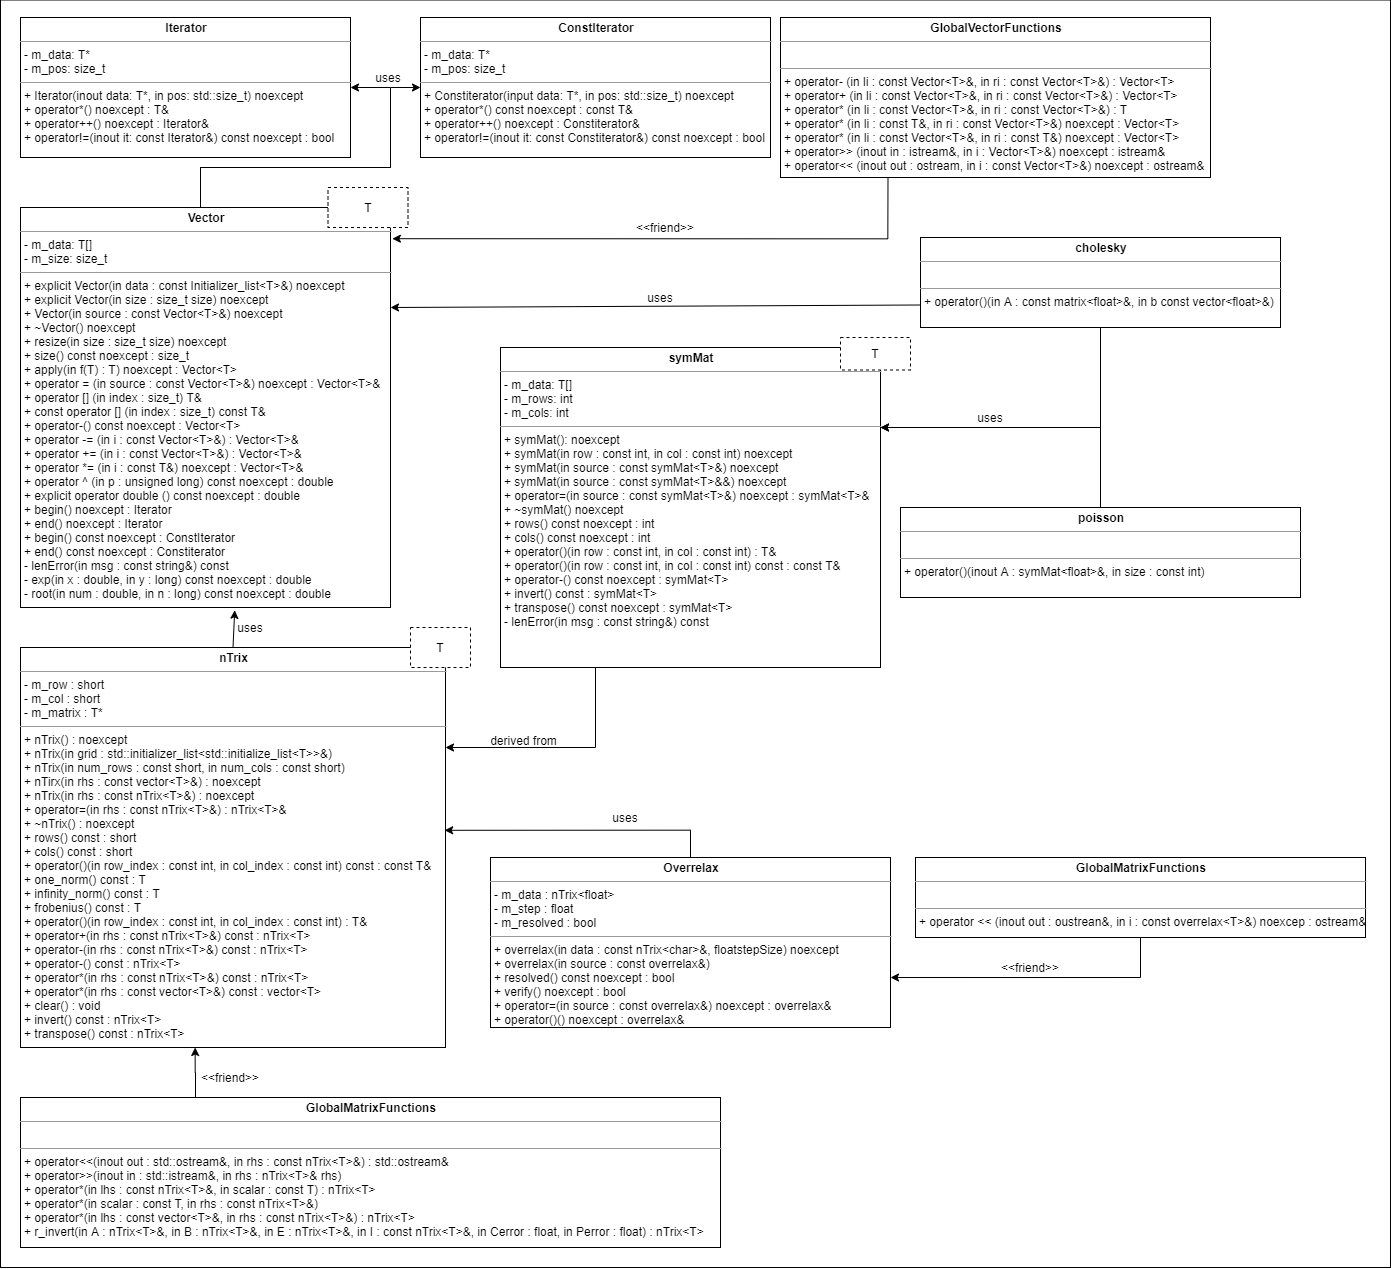
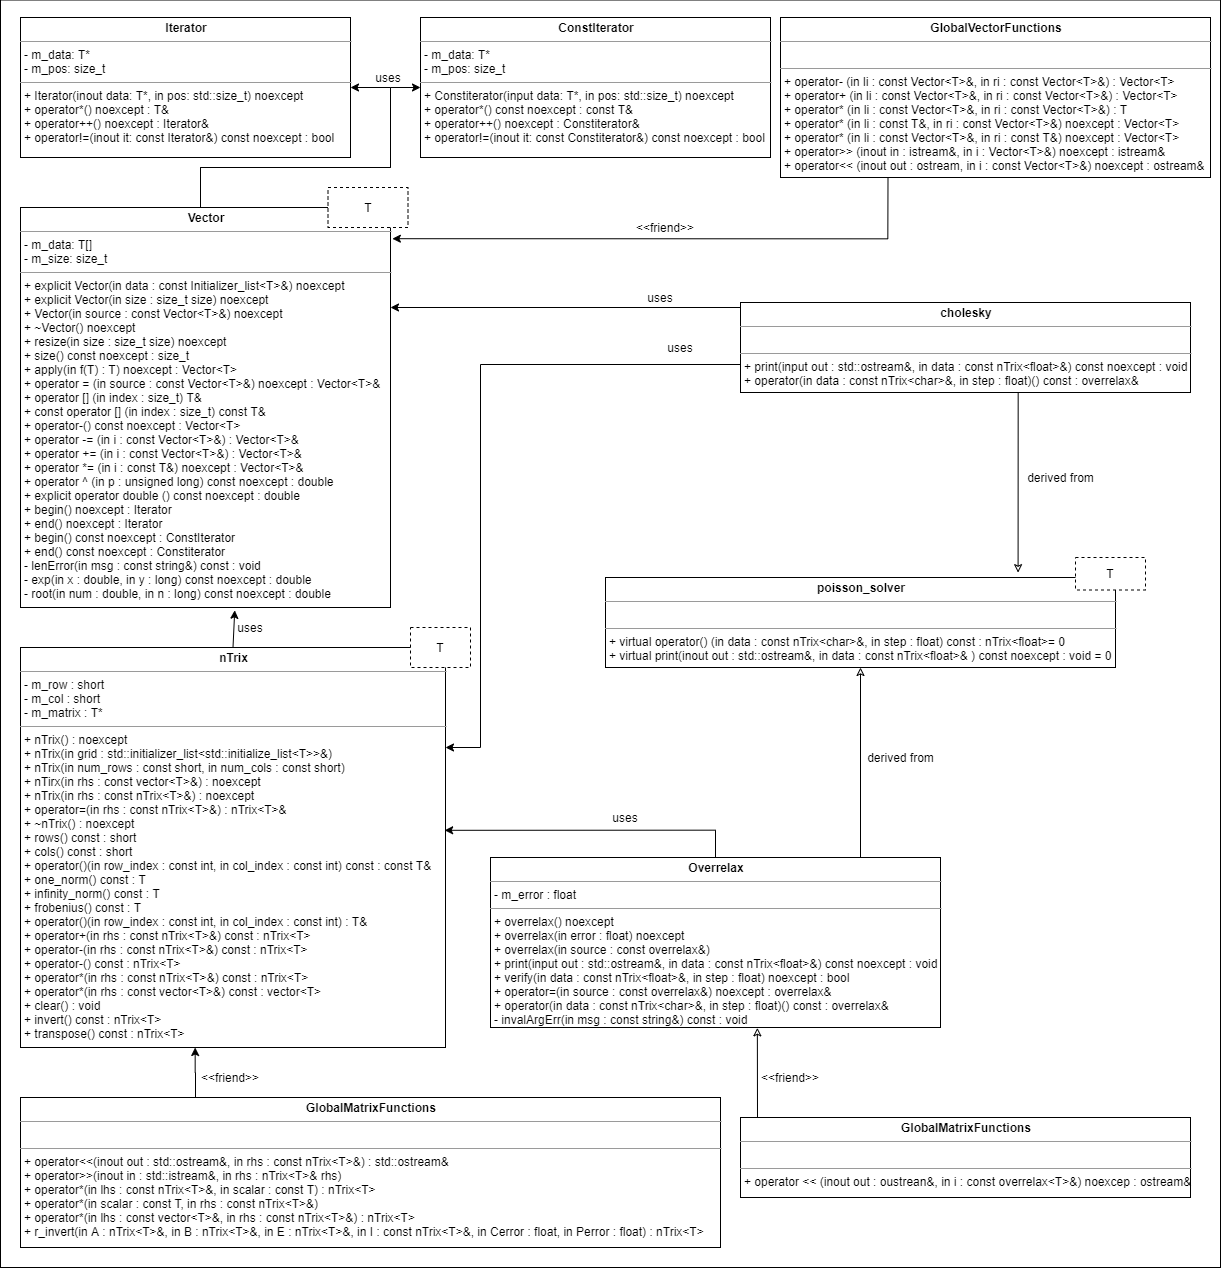
clean up and reworked uml

diff --git a/overrelax.h b/overrelax.h
@@ -24,7 +24,7 @@ class overrelax : public poisson_solver<overrelax>
 {
     private:
         /** The minimal change needed to mark the solution as found (+/-)*/
-        const float m_error;
+        float m_error;
         /********************* other functions *********************/
         /**
         * @brief    prints out and throws a invalid_argument error
@@ -35,7 +35,7 @@ class overrelax : public poisson_solver<overrelax>
         *
         * @param    msg - the message printed to explain the error
         */
-        void lenInvalArg(const std::string& msg) const;
+        void invalArgErr(const std::string& msg) const;
     public:
         /********************* constructor/destructors *********************/
         /**
@@ -57,26 +57,37 @@ class overrelax : public poisson_solver<overrelax>
         * @param    error - the maximum absolute change between iterations that
         *                   is accepted for a found solution per cell
         */
-        overrelax(float error) noexcept
+        overrelax(float error)
             : m_error(error)
+        {
+            if (error <= 0)
+            {
+                const std::string err = "error mussed be greater than 0. Passed"
+                                        " error: " + std::to_string(error);
+                invalArgErr(err);
+            }
+        };
+
+        /**
+        * @brief    overrelax copy constructor
+        * @pre      N/A
+        * @post     creates a overrelax class with the same error
+        * 
+        * @param    source - the overrelax class to copy
+        */
+        overrelax(const overrelax& source) noexcept
+            : m_error(source.m_error)
         {};
 
-        /********************* output functions *********************/
+        /********************* operator functions *********************/
         /**
-        * @brief    Checks to see if the solution is solved. Used to double
-        *           check the values
+        * @brief    overrelax copy constructor
         * @pre      N/A
-        * @post     returns if the state has been verified to have been solved
-        *           with sufficient accuracy
+        * @post     creates a overrelax class with the same error
         * 
-        * @param    data - the matrix to be verified.
-        * @param    step - the cost to move to an adjacent cell, must be greater
-        *                  than zero
-        * 
-        * @return   if the state has been verified to have been solved with
-        *           sufficient accuracy
+        * @param    source - the overrelax class to copy
         */
-        bool verify(const nTrix<float>& data, float step) noexcept;
+        overrelax& operator= (const overrelax& source) noexcept;
 
         /**
         * @brief    Used to get the solution to the poisson equation
@@ -95,6 +106,23 @@ class overrelax : public poisson_solver<overrelax>
         * @return   the solution matrix
         */
         nTrix<float> operator()(const nTrix<char>& data, float step) const;
+
+        /********************* output functions *********************/
+        /**
+        * @brief    Checks to see if the solution is solved. Used to double
+        *           check the values
+        * @pre      N/A
+        * @post     returns if the state has been verified to have been solved
+        *           with sufficient accuracy
+        * 
+        * @param    data - the matrix to be verified.
+        * @param    step - the cost to move to an adjacent cell, must be greater
+        *                  than zero
+        * 
+        * @return   if the state has been verified to have been solved with
+        *           sufficient accuracy
+        */
+        bool verify(const nTrix<float>& data, float step) noexcept;
 
         /**
         * @brief    Used to print out the matrix in a comma deliminated fashion

diff --git a/overrelax.cpp b/overrelax.cpp
@@ -10,36 +10,18 @@
 #include "overrelax.h"
 
 /********************* other functions *********************/
-void overrelax::lenInvalArg(const std::string& msg) const
+void overrelax::invalArgErr(const std::string& msg) const
 {
     std::cout << msg << std::endl;
     throw std::invalid_argument(msg);
 }
 
-/********************* output functions *********************/
-bool overrelax::verify(const nTrix<float>& data, float step) noexcept
+/********************* operator functions *********************/
+overrelax& overrelax::operator= (const overrelax& source) noexcept
 {
-    bool resolved = true;
+    m_error = source.m_error;
 
-    for (short row = 1; row < data.rows() - 1; row++)
-    {
-        for (short col = 1; col < data.cols() - 1; col++)
-        {
-            if (data(row, col) != 0)
-            {
-                const float val = (data(row - 1, col) + data(row + 1, col) +
-                                data(row, col - 1) + data(row, col + 1))/4 +
-                                step;
-                if (data(row, col) > val + m_error ||
-                    data(row, col) < val - m_error)
-                {
-                    resolved = false;
-                }
-            }
-        }
-    }
-
-    return resolved;
+    return *this;
 }
 
 nTrix<float> overrelax::operator()(const nTrix<char>& data, float step) const
@@ -49,7 +31,7 @@ nTrix<float> overrelax::operator()(const nTrix<char>& data, float step) const
         const std::string err = "Step size must be greater than 1. "
                                 "Passed step size: " + 
                                 std::to_string(step);
-        lenInvalArg(err);
+        invalArgErr(err);
     }
     if (data.rows() < 1)
     {
@@ -57,7 +39,7 @@ nTrix<float> overrelax::operator()(const nTrix<char>& data, float step) const
                                 "must bre greater than 1. Passed number"
                                 " of rows: " +
                                 std::to_string(data.rows());
-        lenInvalArg(err);
+        invalArgErr(err);
     }
     if (data.cols() < 1)
     {
@@ -65,7 +47,7 @@ nTrix<float> overrelax::operator()(const nTrix<char>& data, float step) const
                                 "must bre greater than 1. Passed number"
                                 " of cols: " +
                                 std::to_string(data.cols());
-        lenInvalArg(err);
+        invalArgErr(err);
     }
 
     nTrix<float> result(data.rows() + 2, data.cols() + 2);
@@ -137,6 +119,32 @@ nTrix<float> overrelax::operator()(const nTrix<char>& data, float step) const
     }
 
     return result;
+}
+
+/********************* output functions *********************/
+bool overrelax::verify(const nTrix<float>& data, float step) noexcept
+{
+    bool resolved = true;
+
+    for (short row = 1; row < data.rows() - 1; row++)
+    {
+        for (short col = 1; col < data.cols() - 1; col++)
+        {
+            if (data(row, col) != 0)
+            {
+                const float val = (data(row - 1, col) + data(row + 1, col) +
+                                data(row, col - 1) + data(row, col + 1))/4 +
+                                step;
+                if (data(row, col) > val + m_error ||
+                    data(row, col) < val - m_error)
+                {
+                    resolved = false;
+                }
+            }
+        }
+    }
+
+    return resolved;
 }
 
 void overrelax::print(std::ostream& out, const nTrix<float>& data) const

diff --git a/cholesky.cpp b/cholesky.cpp
@@ -145,11 +145,11 @@ nTrix<float> cholesky::operator()(const nTrix<char>& data, float step) const
     }
   }
 
-  for(i = 0; i < x.size(); ++i)
+  for(i = 0; i < static_cast<int>(x.size()); ++i)
   {
     if(x[i] == 0)
     {
-      for(j = 0; j < x.size(); ++j)
+      for(j = 0; j < static_cast<int>(x.size()); ++j)
       {
         if(i != j)
         {
@@ -214,7 +214,7 @@ nTrix<float> cholesky::operator()(const nTrix<char>& data, float step) const
     }
   }
 
-  for(i = 0; i < y.size(); ++i)
+  for(i = 0; i < static_cast<int>(y.size()); ++i)
   {
     if(x[i] != 0)
     {

diff --git a/poisson_solver.h b/poisson_solver.h
@@ -46,7 +46,8 @@ class poisson_solver
         *
         * @param    out - the ostream that takes in the output
         */
-        virtual void print(std::ostream& out, const nTrix<float>& data) const noexcept = 0;
+        virtual void print(std::ostream& out, const nTrix<float>& data) const
+                                                                   noexcept = 0;
 };
 
 #endif /* POISSON_SOLVER_H */
